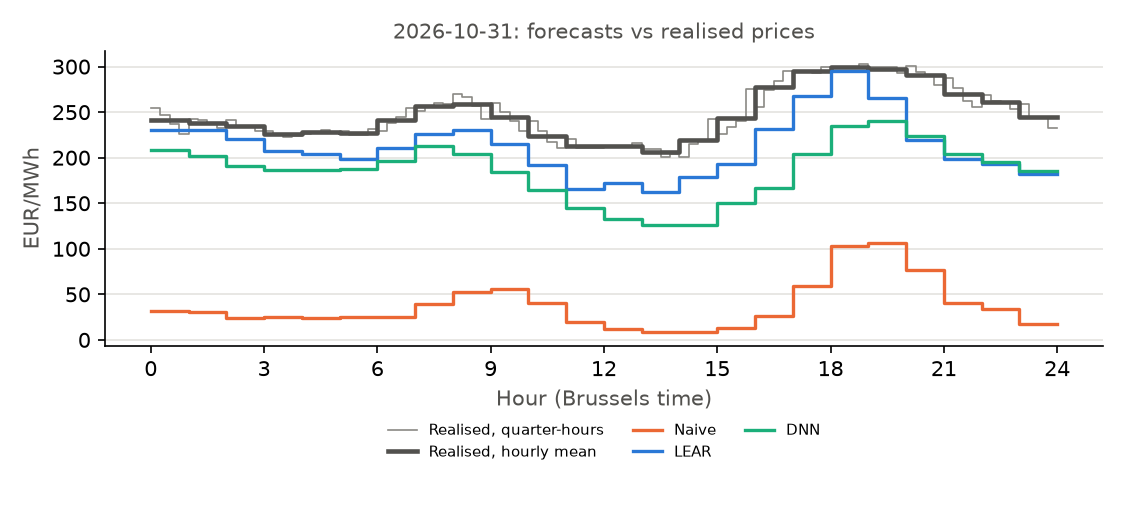
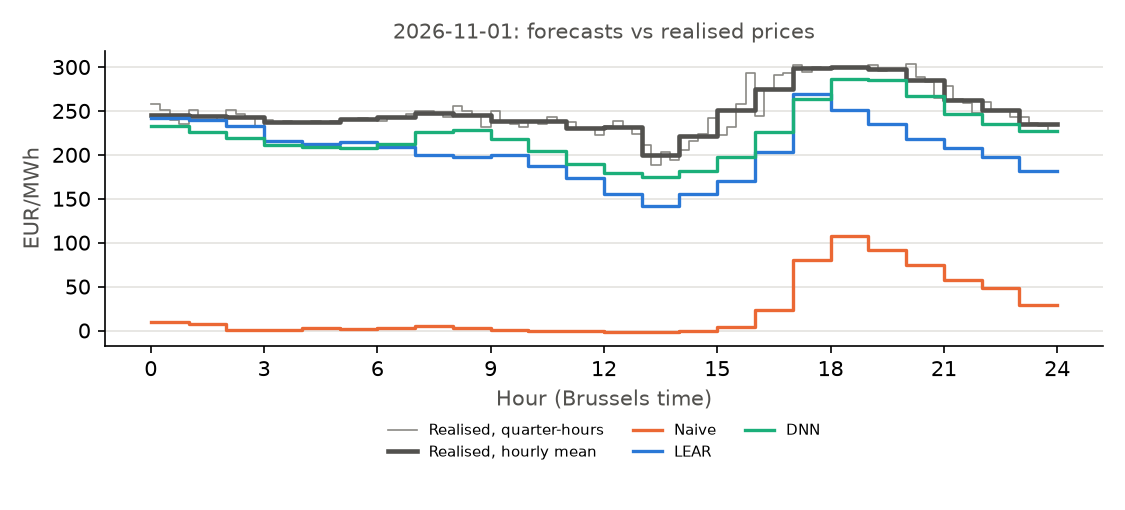
chore(live): forecast of 2026-11-02

Changed region(s): [[0.0311, 0.1176, 0.9956, 0.6765], [0.0311, 0.1176, 0.0933, 0.1471], [0.4044, 0.0588, 0.4356, 0.0882]]

diff --git a/live/README.md b/live/README.md
@@ -4,9 +4,9 @@ Since 1 October 2026, the day after the end of the backtest, the two models of t
 
 The forecasts use the French generation forecast, which is published after the 12:00 auction: they follow the paper, but could not have been used to bid.
 
-Updated on 2026-10-31.
+Updated on 2026-11-01.
 
-## Today, 2026-10-31
+## Today, 2026-11-01
 
 ![Forecasts vs realised prices](compare.png)
 
@@ -14,17 +14,17 @@ Error (MAE, EUR/MWh) against the hourly mean of the realised prices:
 
 | Naive | LEAR | DNN | Perfect hourly forecast* |
 |---|---|---|---|
-| 210.64 | 35.99 | 62.34 | 6.06 |
+| 227.41 | 45.46 | 27.00 | 5.95 |
 
 *Against the quarter-hour prices: the error a perfect hourly forecast still makes, since the models forecast hours.
 
-## Since 1 October 2026 (30 days)
+## Since 1 October 2026 (31 days)
 
 | Model | Error since the start | Last 7 days |
 |---|---|---|
-| LEAR | 32.89 | 41.50 |
-| DNN | 33.64 | 58.52 |
-| Naive | 53.05 | 86.04 |
+| LEAR | 33.30 | 42.06 |
+| DNN | 33.42 | 54.02 |
+| Naive | 58.68 | 106.23 |
 
 Errors in EUR/MWh (MAE), on the days where the three models have a forecast. The naive forecast copies the same day of last week on Mondays, Saturdays and Sundays, the previous day otherwise.
 
@@ -33,6 +33,7 @@ Errors in EUR/MWh (MAE), on the days where the three models have a forecast. The
 
 | Day | Naive | LEAR | DNN |
 |---|---|---|---|
+| 2026-11-01 | 227.41 | 45.46 | 27.00 |
 | 2026-10-31 | 210.64 | 35.99 | 62.34 |
 | 2026-10-30 | 34.15 | 16.87 | 22.86 |
 | 2026-10-29 | 45.82 | 55.78 | 72.03 |
@@ -72,30 +73,30 @@ Errors in EUR/MWh (MAE), on the days where the three models have a forecast. The
 
 | Hour | Naive | LEAR | DNN |
 |---|---|---|---|
-| 0 | 54.60 | 14.98 | 16.03 |
-| 1 | 52.77 | 16.28 | 16.28 |
-| 2 | 51.89 | 18.41 | 17.79 |
-| 3 | 50.09 | 22.70 | 20.25 |
-| 4 | 50.36 | 24.22 | 20.12 |
-| 5 | 50.45 | 26.77 | 19.76 |
-| 6 | 48.77 | 26.10 | 26.67 |
-| 7 | 48.60 | 26.16 | 32.56 |
-| 8 | 52.71 | 31.33 | 34.74 |
-| 9 | 56.41 | 36.61 | 34.80 |
-| 10 | 56.97 | 35.77 | 31.85 |
-| 11 | 63.19 | 38.30 | 34.54 |
-| 12 | 64.22 | 41.97 | 36.84 |
-| 13 | 58.40 | 38.63 | 35.60 |
-| 14 | 60.32 | 39.00 | 35.29 |
-| 15 | 52.04 | 37.23 | 35.14 |
-| 16 | 54.68 | 44.27 | 43.32 |
-| 17 | 56.45 | 50.62 | 50.58 |
-| 18 | 56.86 | 41.53 | 51.24 |
-| 19 | 56.74 | 39.76 | 52.18 |
-| 20 | 46.16 | 36.53 | 44.08 |
-| 21 | 44.45 | 33.53 | 40.47 |
-| 22 | 41.14 | 32.62 | 38.61 |
-| 23 | 44.94 | 36.03 | 38.58 |
+| 0 | 60.44 | 14.63 | 15.94 |
+| 1 | 58.72 | 15.91 | 16.36 |
+| 2 | 58.06 | 18.16 | 18.01 |
+| 3 | 56.12 | 22.70 | 20.44 |
+| 4 | 56.33 | 24.25 | 20.40 |
+| 5 | 56.53 | 26.75 | 20.19 |
+| 6 | 54.92 | 26.33 | 26.79 |
+| 7 | 54.87 | 26.87 | 32.21 |
+| 8 | 58.84 | 31.87 | 34.17 |
+| 9 | 62.28 | 36.70 | 34.34 |
+| 10 | 62.86 | 36.30 | 31.92 |
+| 11 | 68.60 | 38.88 | 34.72 |
+| 12 | 69.65 | 43.07 | 37.36 |
+| 13 | 63.02 | 39.26 | 35.24 |
+| 14 | 65.54 | 39.88 | 35.43 |
+| 15 | 58.36 | 38.64 | 35.76 |
+| 16 | 61.06 | 45.16 | 43.53 |
+| 17 | 61.67 | 49.95 | 50.07 |
+| 18 | 61.22 | 41.76 | 50.02 |
+| 19 | 61.56 | 40.51 | 50.89 |
+| 20 | 51.47 | 37.50 | 43.25 |
+| 21 | 49.63 | 34.20 | 39.69 |
+| 22 | 46.35 | 33.28 | 37.89 |
+| 23 | 50.12 | 36.57 | 37.57 |
 
 </details>
 
